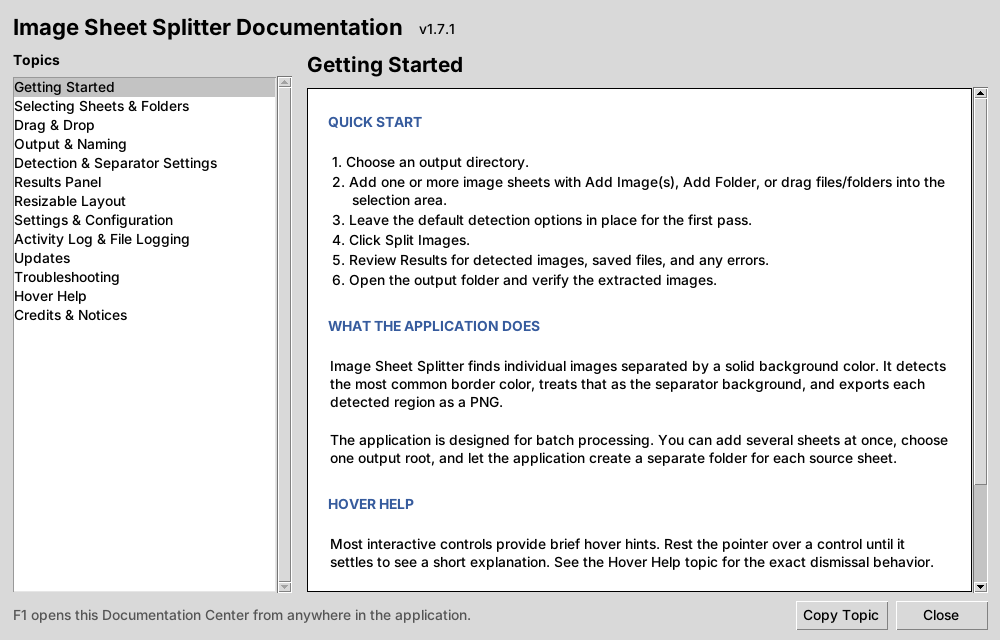
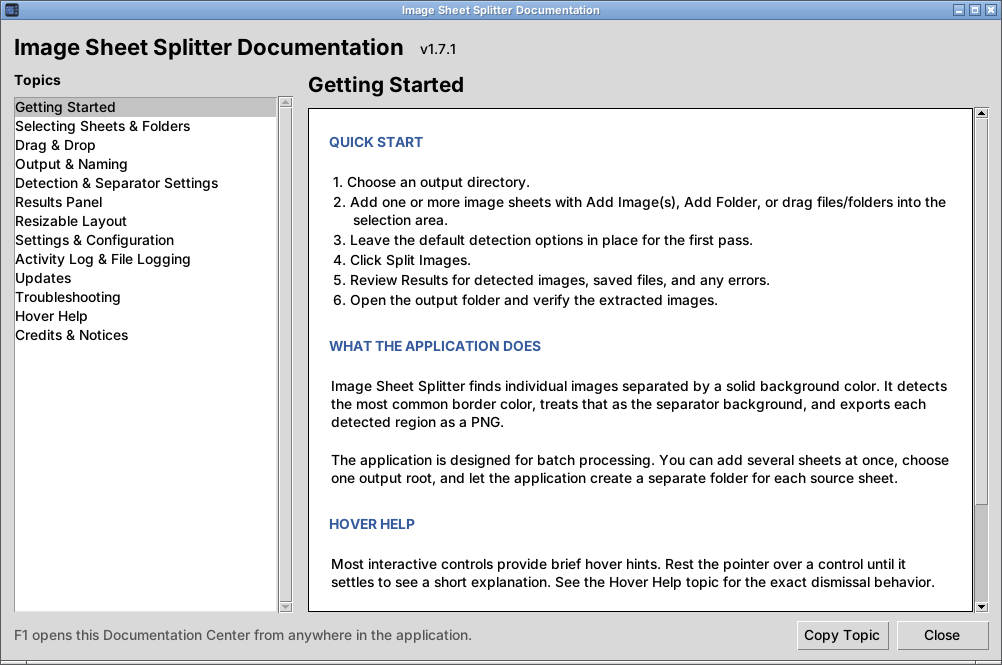
docs: add screenshots for every main feature (#4)
* docs: add screenshots for every main feature

Claude-Session: https://claude.ai/code/session_01AkZzWGrtgB5fTSFkheCvNi

* docs: recapture screenshots with short demo paths and window frames

Claude-Session: https://claude.ai/code/session_01AkZzWGrtgB5fTSFkheCvNi

---------

Changed region(s): [[0.0, 0.0, 1.0, 1.0], [0.341, 0.7812, 0.403, 0.8125]]

diff --git a/README.md b/README.md
@@ -34,17 +34,49 @@ Image Sheet Splitter is a Windows-first portable utility for sprite sheets, artw
 
 ## Screenshots
 
-**Splitting a sprite sheet: the input sheet and the PNG files the app exported**
+### Splitting sheets
 
-<img src="docs/images/sprite-sheet-output.png" alt="Splitting a sprite sheet: the input sheet and the PNG files the app exported" width="900">
+<table>
+  <tr>
+    <td width="50%"><b>Sprite sheet on a magenta background split into 8 PNG files</b><br><img src="docs/images/sprite-sheet-output.png" alt="Sprite sheet on a magenta background split into 8 PNG files" width="440"></td>
+    <td width="50%"><b>Wii U Virtual Console dimensions get descriptive names; other sizes stay generic</b><br><img src="docs/images/vc-artwork-naming.png" alt="Wii U Virtual Console dimensions get descriptive names; other sizes stay generic" width="440"></td>
+  </tr>
+  <tr>
+    <td width="50%"><b>JPEG sheet on white, split with a higher background tolerance</b><br><img src="docs/images/jpeg-sheet-output.png" alt="JPEG sheet on white, split with a higher background tolerance" width="440"></td>
+    <td width="50%"><b>WebP UI atlas on a green background</b><br><img src="docs/images/webp-atlas-output.png" alt="WebP UI atlas on a green background" width="440"></td>
+  </tr>
+</table>
 
-**Wii U Virtual Console dimensions get descriptive names; other sizes stay generic**
+### Adding sheets and detection
 
-<img src="docs/images/vc-artwork-naming.png" alt="Wii U Virtual Console dimensions get descriptive names; other sizes stay generic" width="900">
+<table>
+  <tr>
+    <td width="50%"><b>A folder of JPEG, WebP and BMP sheets dropped onto the window and split</b><br><img src="docs/images/drag-drop-formats.png" alt="A folder of JPEG, WebP and BMP sheets dropped onto the window and split" width="440"></td>
+    <td width="50%"><b>Background tolerance and minimum crop sizes in Settings</b><br><img src="docs/images/settings-detection.png" alt="Background tolerance and minimum crop sizes in Settings" width="440"></td>
+  </tr>
+</table>
 
-**Built-in Documentation Center**
+### Results and layout
 
-<img src="docs/images/documentation-center.png" alt="Built-in Documentation Center" width="900">
+<table>
+  <tr>
+    <td width="50%"><b>Results panel detached into its own window</b><br><img src="docs/images/detached-results.png" alt="Results panel detached into its own window" width="440"></td>
+    <td width="50%"><b>Hover help on the Split Images button</b><br><img src="docs/images/hover-help.png" alt="Hover help on the Split Images button" width="440"></td>
+  </tr>
+</table>
+
+### Settings, help and updates
+
+<table>
+  <tr>
+    <td width="50%"><b>File logging settings</b><br><img src="docs/images/settings-logging.png" alt="File logging settings" width="440"></td>
+    <td width="50%"><b>Built-in Documentation Center</b><br><img src="docs/images/documentation-center.png" alt="Built-in Documentation Center" width="440"></td>
+  </tr>
+  <tr>
+    <td width="50%"><b>Manual update check against the stable release feed</b><br><img src="docs/images/update-check.png" alt="Manual update check against the stable release feed" width="440"></td>
+    <td width="50%"></td>
+  </tr>
+</table>
 
 ## Download
 
